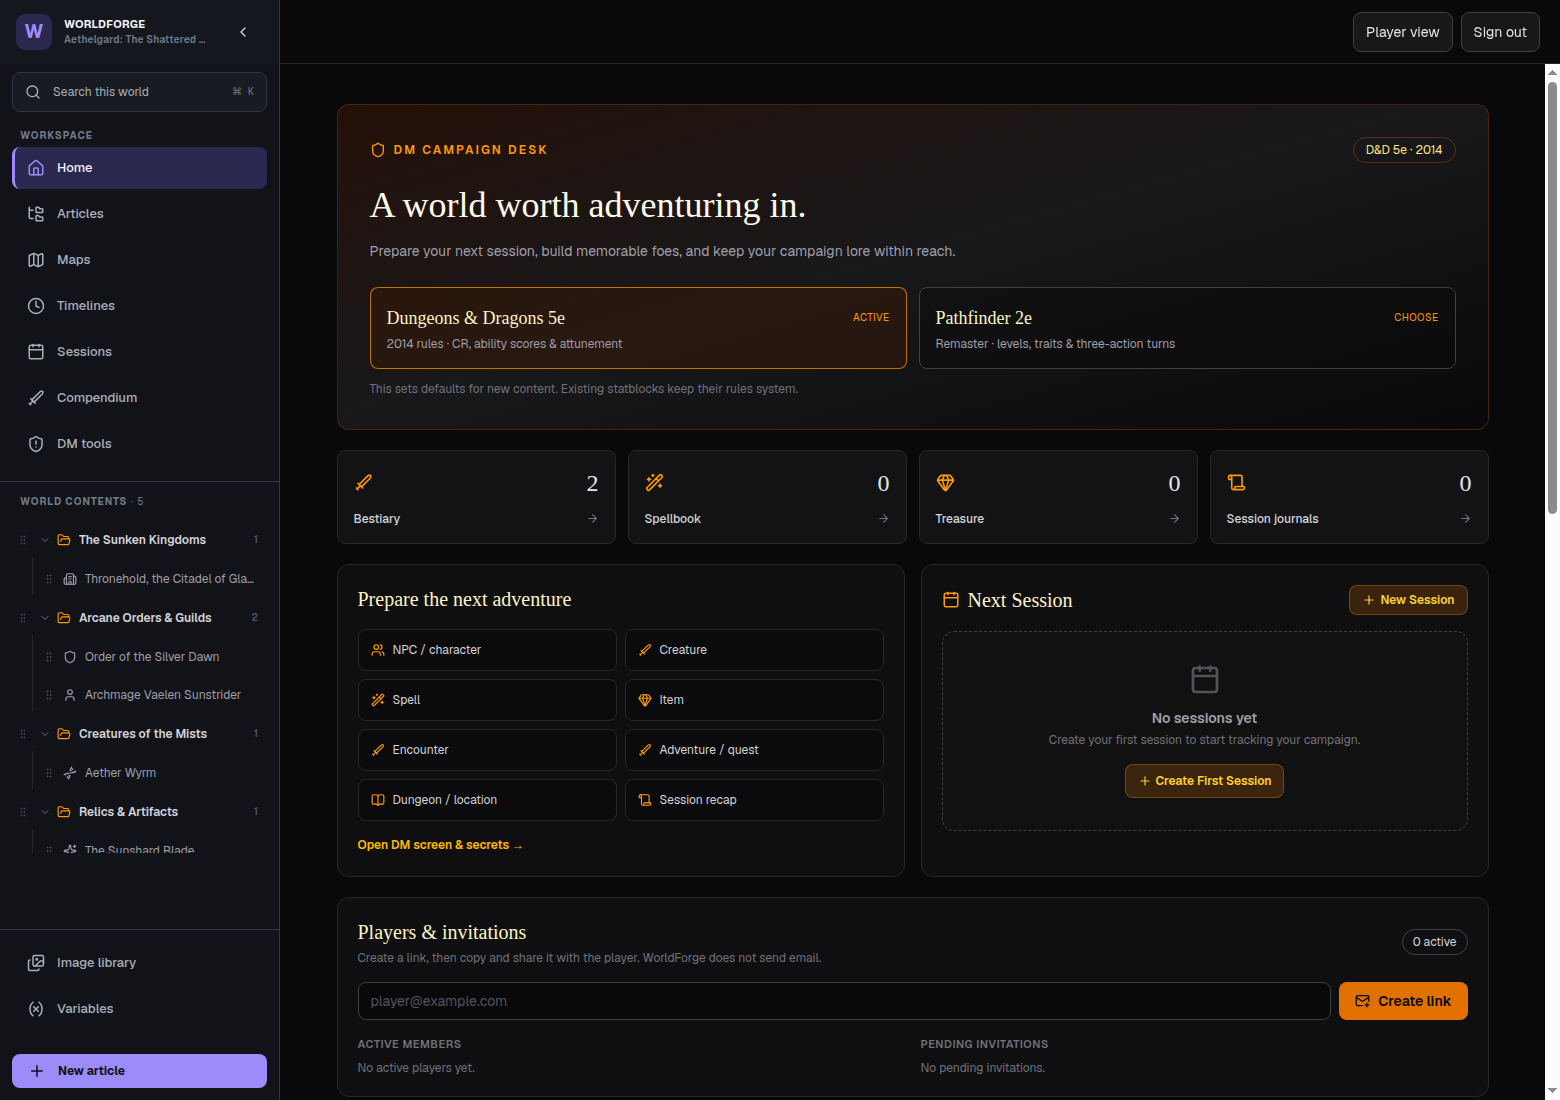
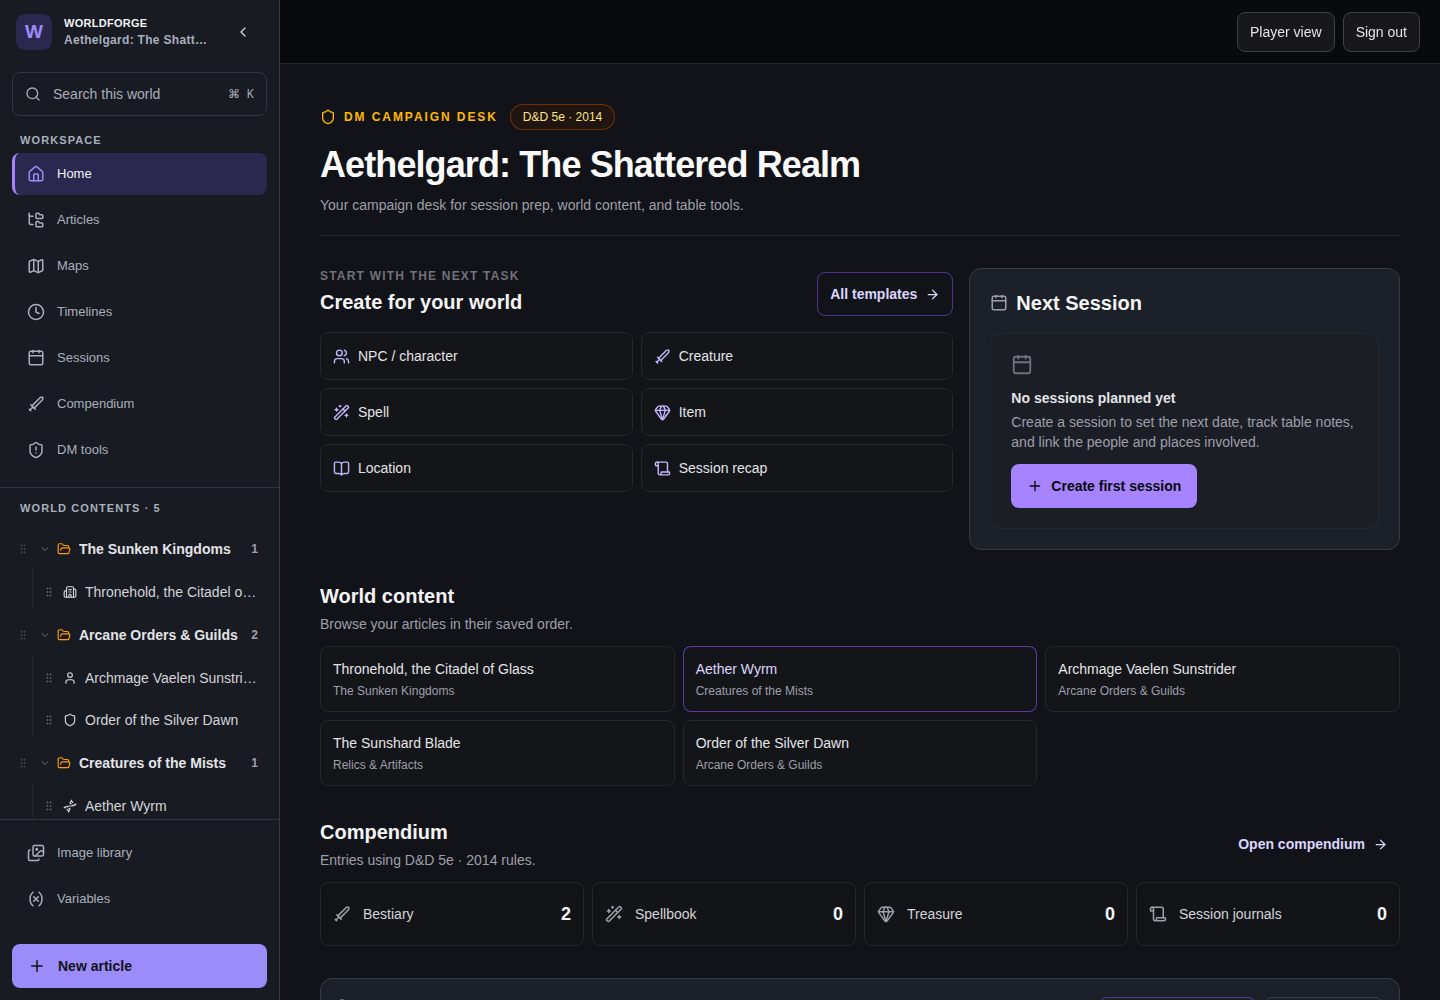
docs: refresh workspace screenshots

diff --git a/wiki/Home.md b/wiki/Home.md
@@ -29,6 +29,21 @@ interactive maps, D&D and Pathfinder character sheets, world export/import,
 and full-installation backup and restore. Feature guides will be added to this
 wiki as they are adapted from the repository documentation.
 
+## See the workspace
+
+The desktop campaign desk keeps creation shortcuts, world content, compendium
+counts, and the article tree together:
+
+![Desktop Aethelgard campaign desk with creation shortcuts, world content, compendium counts, and the World contents sidebar](https://raw.githubusercontent.com/emorgan33/worldforge/main/docs/screenshots/author-workspace-desktop.png)
+
+On a narrow screen, the same destinations and article tree move into a compact
+campaign navigation drawer:
+
+![Mobile Aethelgard author workspace with the campaign navigation drawer and World contents tree open](https://raw.githubusercontent.com/emorgan33/worldforge/main/docs/screenshots/author-workspace-mobile.png)
+
+Both screenshots use the optional Aethelgard demo seed. They contain no private
+campaign or account data.
+
 ## Documentation status
 
 This wiki is being built in the delivery order tracked by
@@ -37,4 +52,4 @@ This wiki is being built in the delivery order tracked by
 historical records, and feature details that have not yet moved here.
 
 **Source owner:** `wiki/Home.md` in the WorldForge repository.
-**Verified against:** WorldForge commit `9050d94` (October 31, 2026).
+**Verified against:** WorldForge commit `eb117d5` (November 1, 2026).

diff --git a/README.md b/README.md
@@ -15,11 +15,12 @@ your use, and keep backups of your campaign data. See the
 
 ## Screenshots
 
-![Desktop Aethelgard author workspace with the World contents navigation pane](docs/screenshots/author-workspace-desktop.png)
+![Desktop Aethelgard campaign desk with creation shortcuts, world content, compendium counts, and the World contents sidebar](docs/screenshots/author-workspace-desktop.png)
 
-![Mobile Aethelgard author workspace with the World contents navigation pane open](docs/screenshots/author-workspace-mobile.png)
+![Mobile Aethelgard author workspace with the campaign navigation drawer and World contents tree open](docs/screenshots/author-workspace-mobile.png)
 
-Both views come from the optional Aethelgard demo seed and show the author workspace.
+Both views come from the optional Aethelgard demo seed and show the current
+Night Watch author workspace.
 
 ## Features
 
